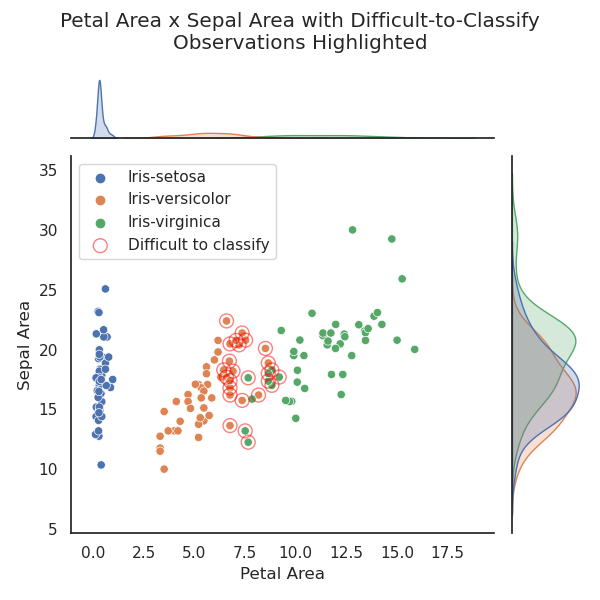
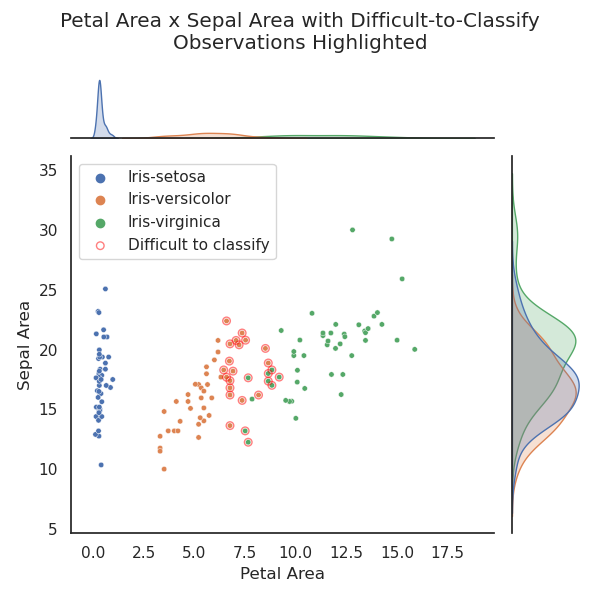
adjust jointplot marker sizes for clarity

diff --git a/analysis_plots.py b/analysis_plots.py
@@ -107,14 +107,15 @@ def scatterplot(data=None, x=None, y=None, overlay=None,
                       x=x, 
                       y=y, 
                       hue="class", 
-                      kind="scatter") 
+                      kind="scatter",
+                      s=15) 
 
     if overlay:
         g.ax_joint.scatter(overlay["x"], 
                            overlay["y"], 
                            facecolors='none', 
                            edgecolors='red', 
-                           s=100, 
+                           s=30, 
                            label=overlay["label"], 
                            alpha=0.5)
 
